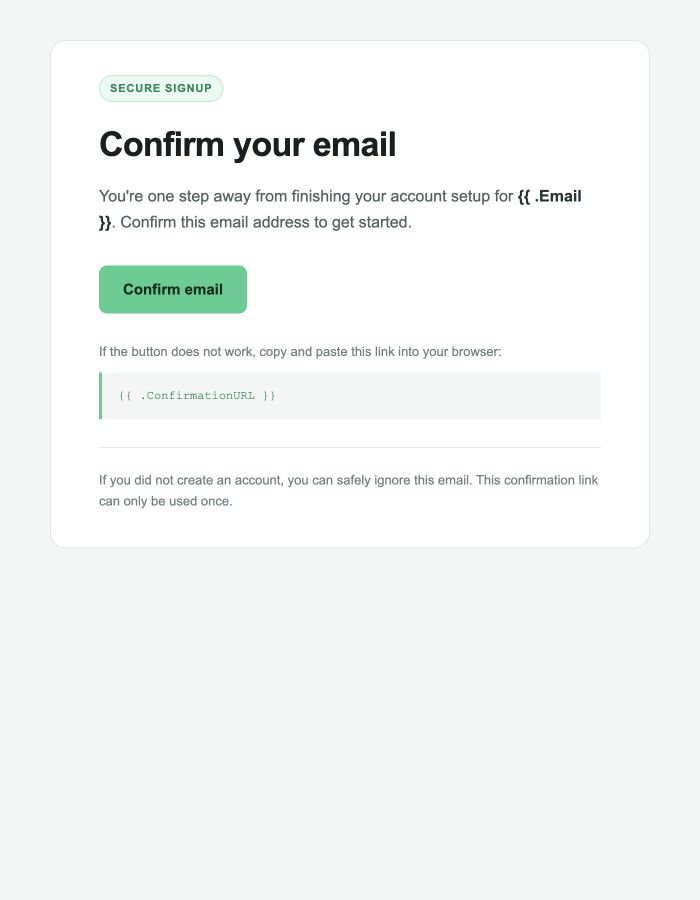
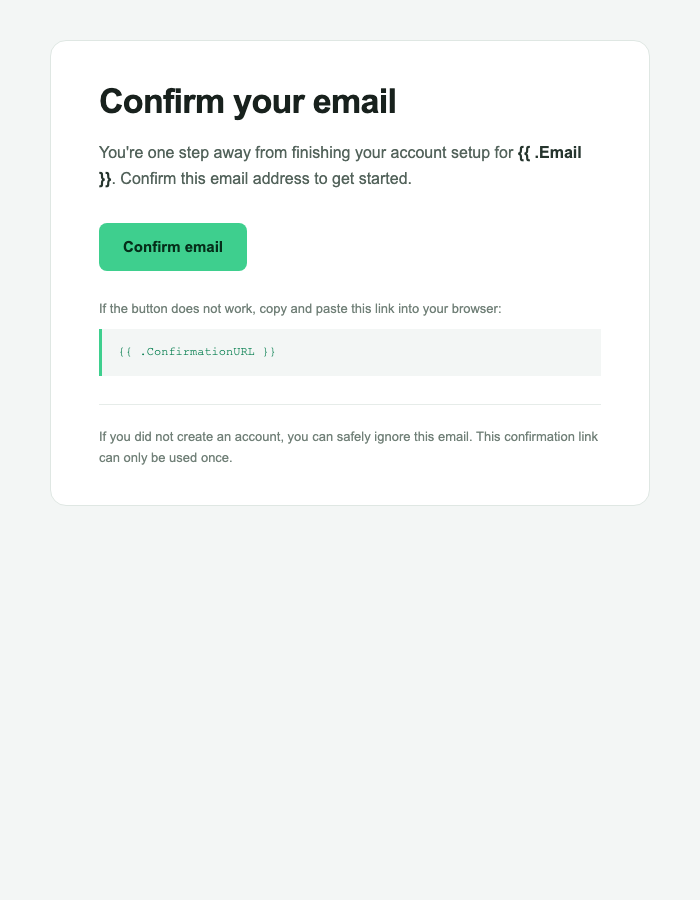
refactor: simplify Supabase signup template

Changed region(s): [[0.12, 0.0933, 0.84, 0.4667], [0.15, 0.4356, 0.84, 0.56]]

diff --git a/templates/supabase-confirm-signup.html b/templates/supabase-confirm-signup.html
@@ -108,31 +108,7 @@
             bgcolor="#ffffff"
           >
             <tr>
-              <td class="content-cell" style="padding: 34px 48px 0">
-                <p
-                  style="
-                    display: inline-block;
-                    margin: 0;
-                    padding: 7px 10px;
-                    background-color: #e8f9f1;
-                    border: 1px solid #b7ead2;
-                    border-radius: 999px;
-                    color: #16865a;
-                    font-family: Arial, Helvetica, sans-serif;
-                    font-size: 11px;
-                    font-weight: bold;
-                    letter-spacing: 0.08em;
-                    line-height: 1;
-                    text-transform: uppercase;
-                  "
-                >
-                  Secure signup
-                </p>
-              </td>
-            </tr>
-
-            <tr>
-              <td class="content-cell" style="padding: 22px 48px 0">
+              <td class="content-cell" style="padding: 40px 48px 0">
                 <h1
                   style="
                     margin: 0;
